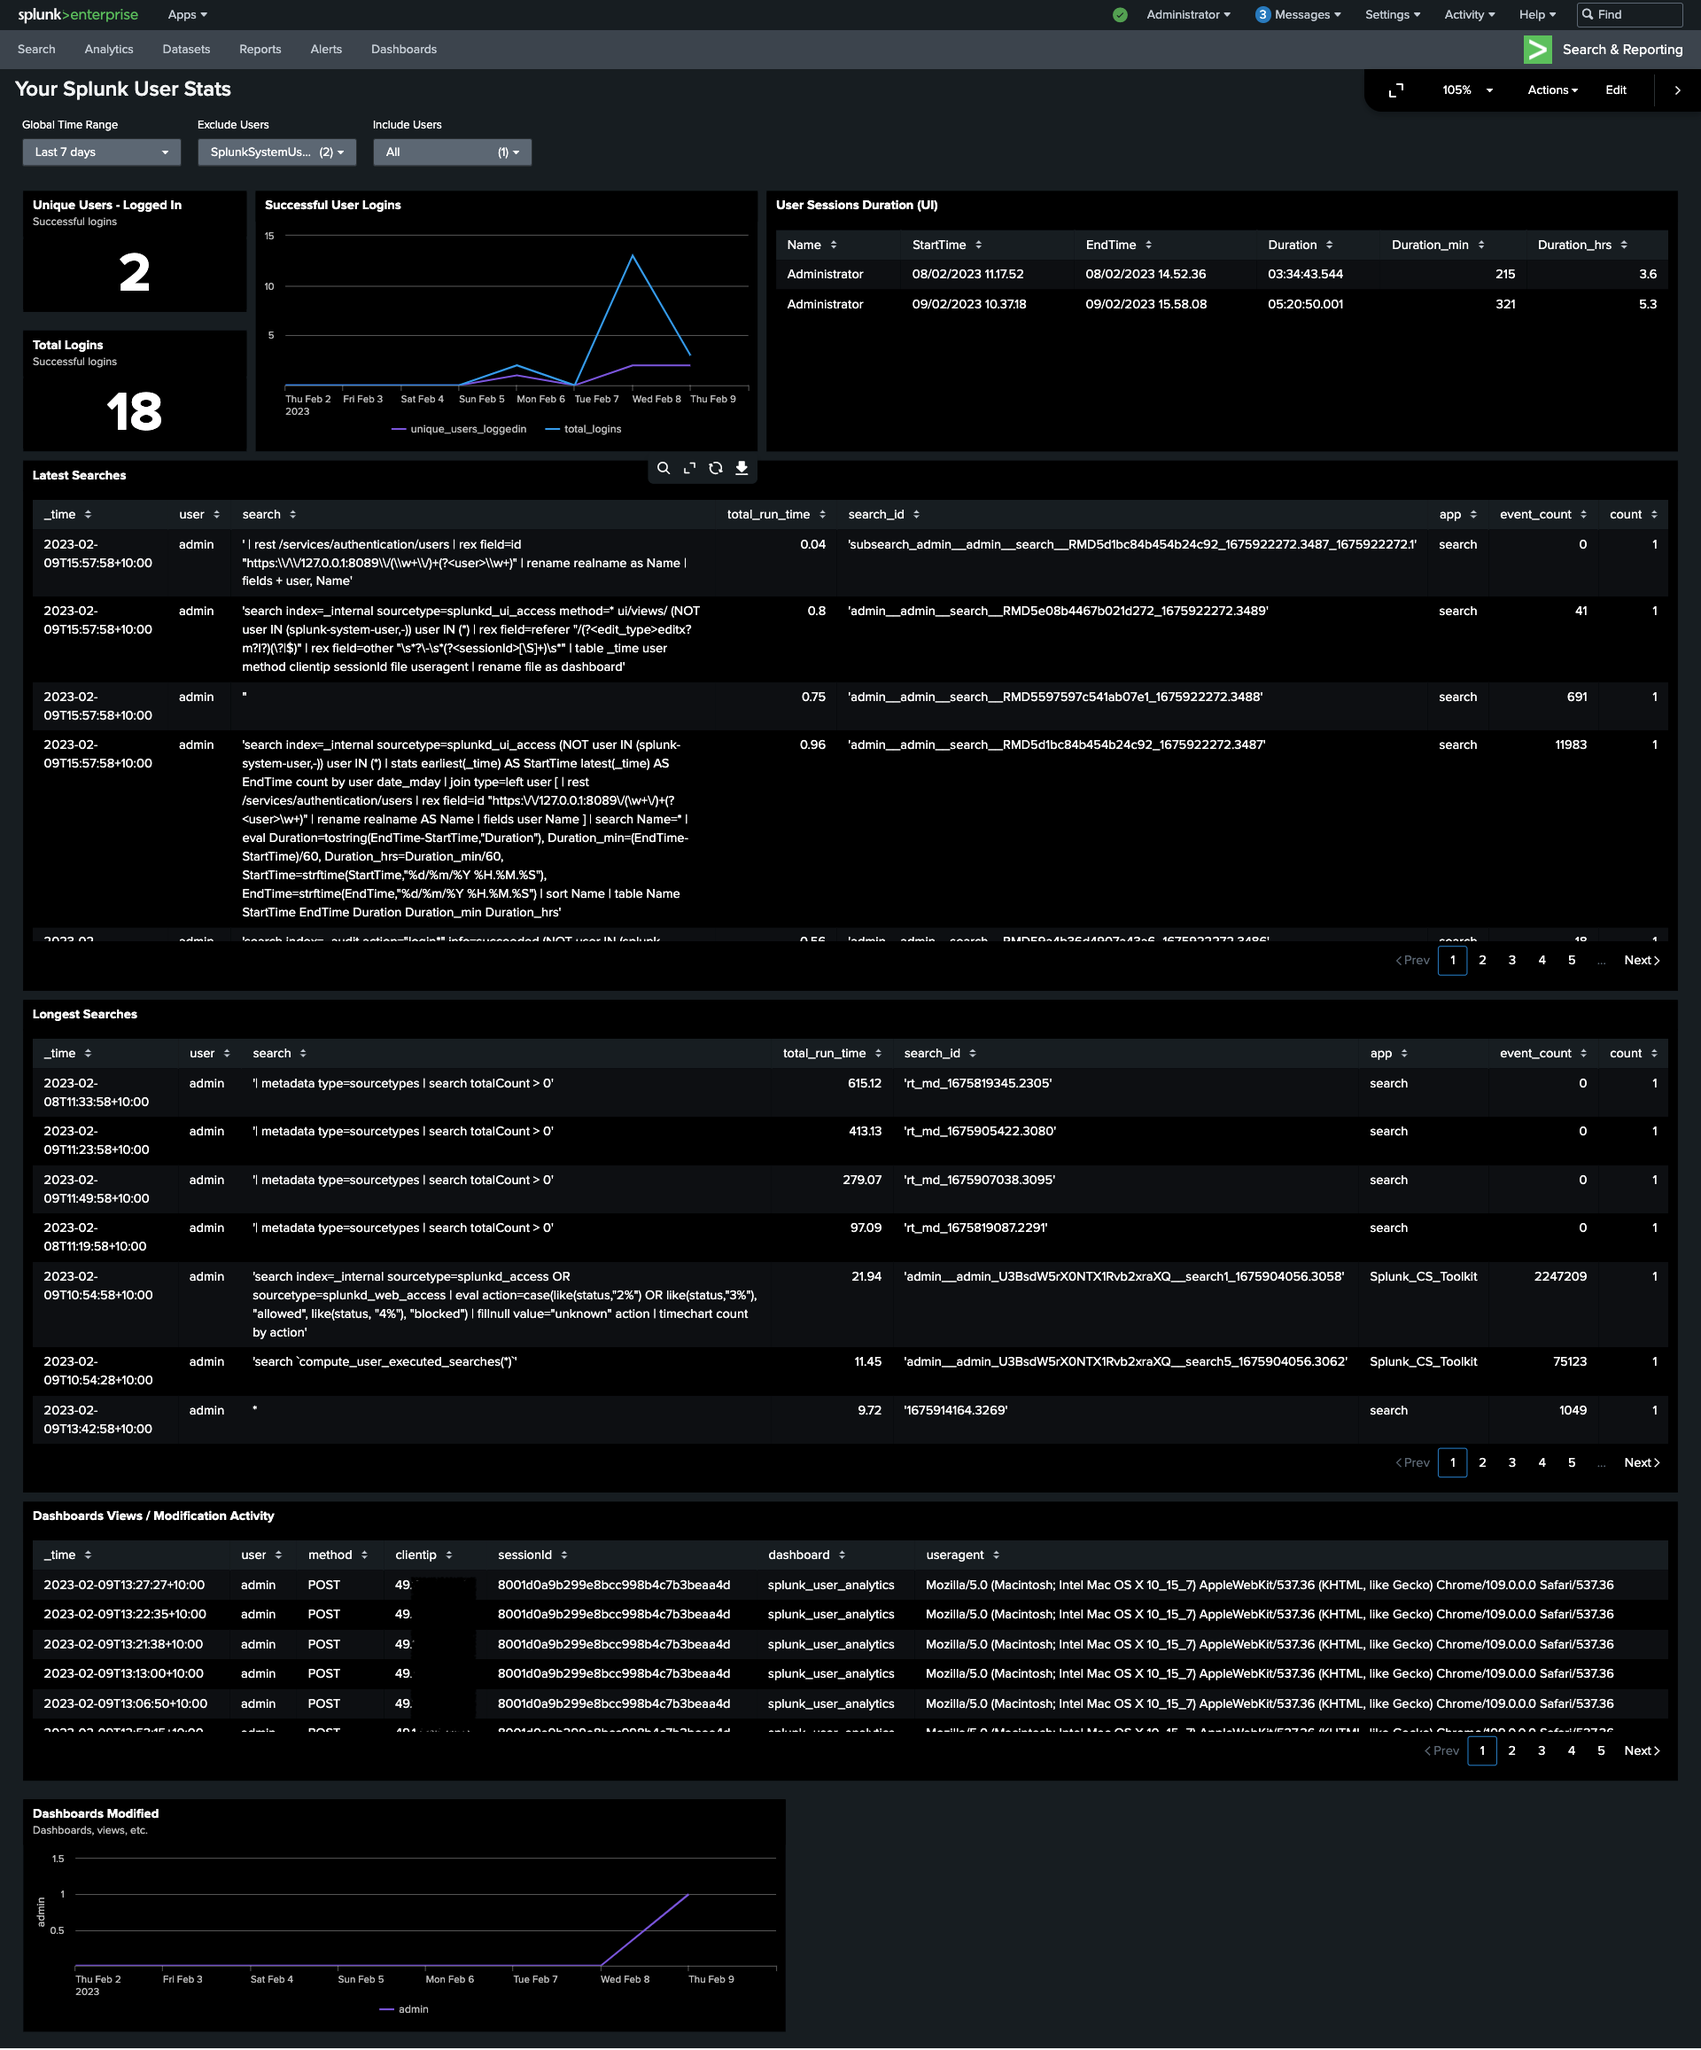
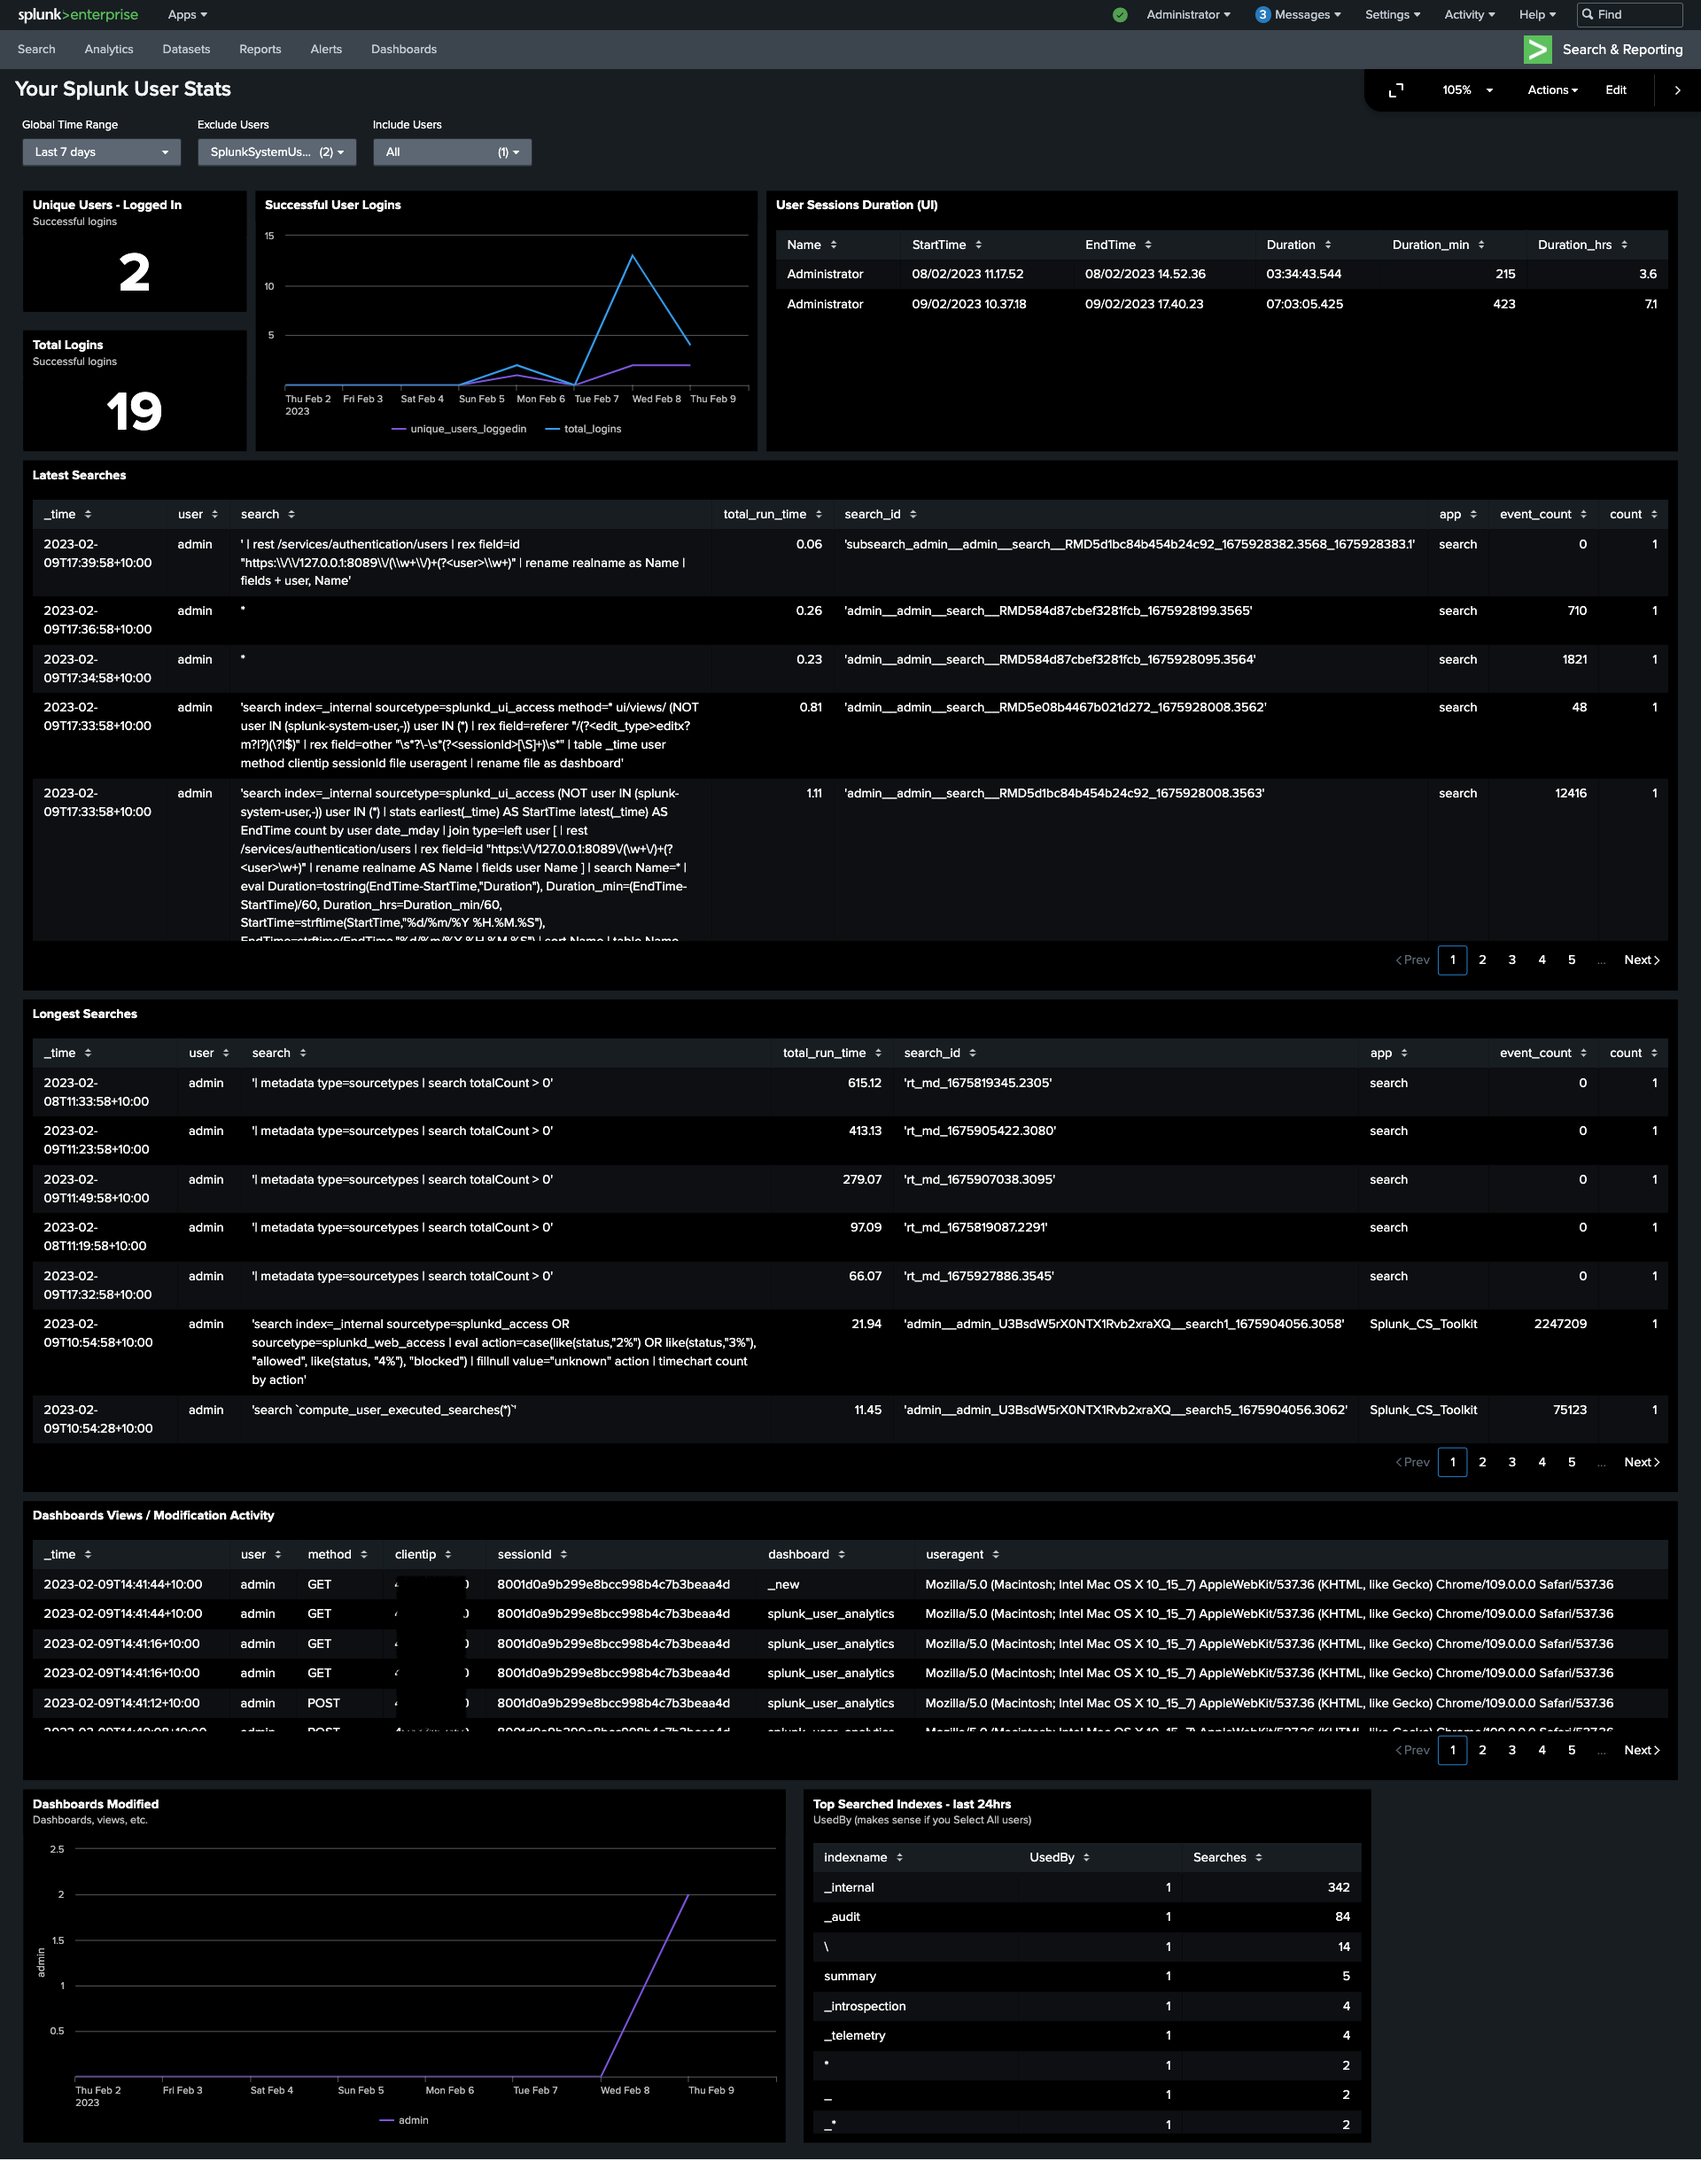
added Top Searched indexes

diff --git a/SplunkUserAnalytics/README.md b/SplunkUserAnalytics/README.md
@@ -8,6 +8,7 @@ _Version v1.0_
 - Duration of Sessions
 - Details around Searches for one or multiple Splunk Users
 - Dashboard Activity
+- Top Searched Indexes
 
 ### IMPORTANT:
 
